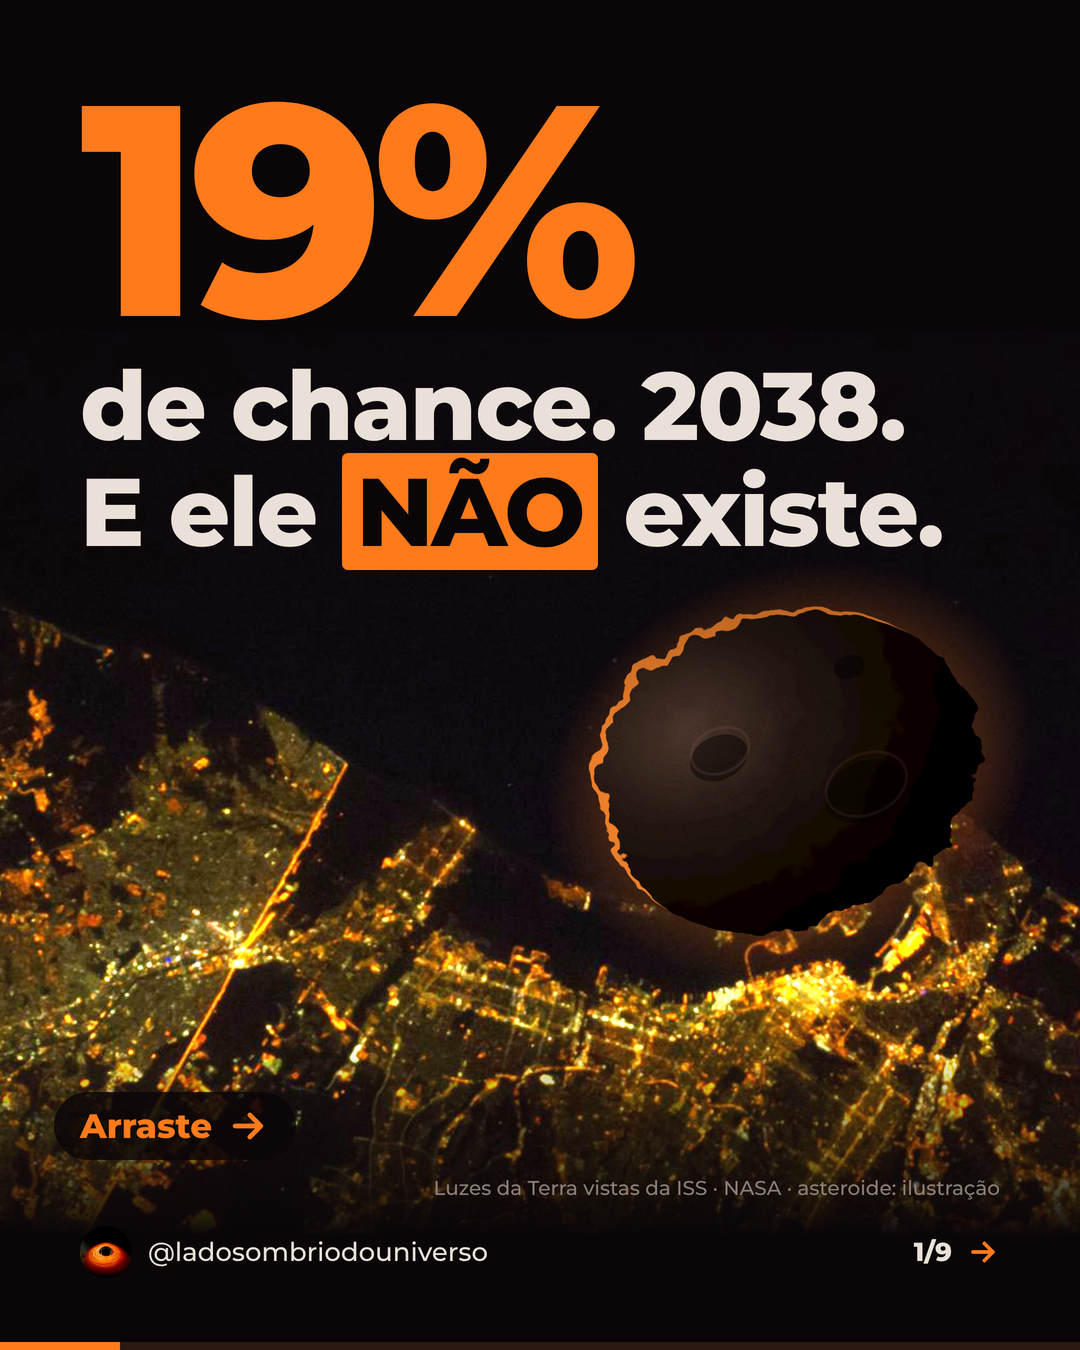
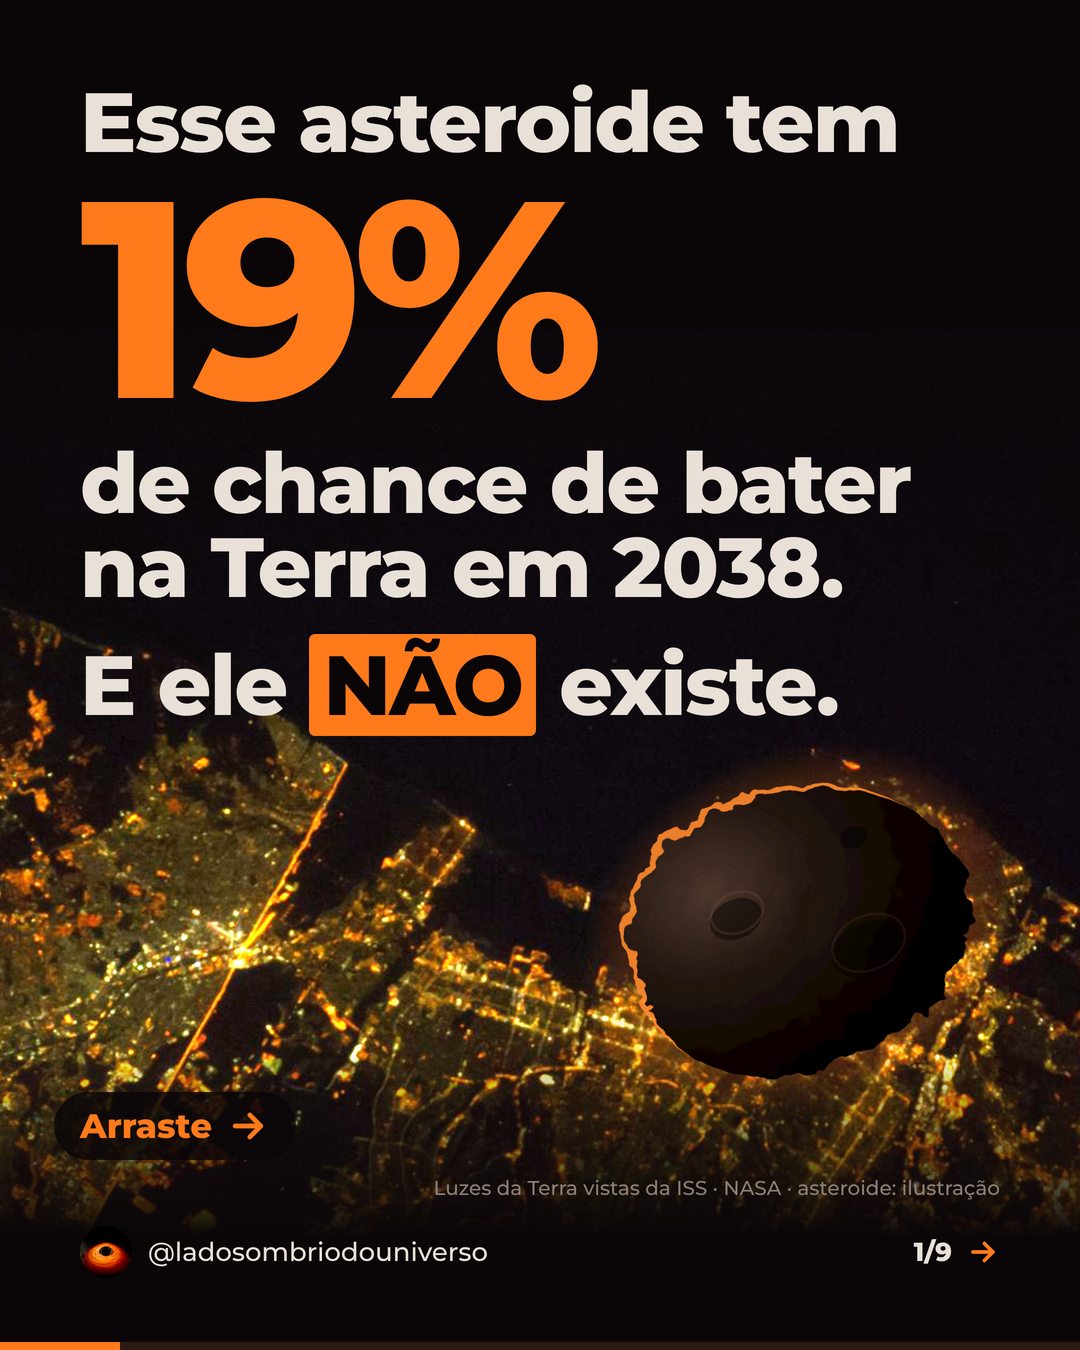
Carrossel PDC27: capa com o gancho "esse asteroide tem 19% de chance"
Pedido do dono na aprovação: a capa passa a dizer a ameaça por inteiro
antes da virada. O asteroide desce para não cobrir o texto.

Claude-Session: https://claude.ai/code/session_019KYTeVZcURhxGac3ijKjZn

Changed region(s): [[0.0611, 0.0622, 0.9472, 0.8089], [0.6722, 0.0622, 0.825, 0.1244]]

diff --git a/producoes/carrosseis/pdc27/carrossel.html b/producoes/carrosseis/pdc27/carrossel.html
@@ -53,7 +53,7 @@
       <filter id="aspero" x="-20%" y="-20%" width="140%" height="140%"><feTurbulence type="fractalNoise" baseFrequency=".035" numOctaves="3" seed="4"/><feDisplacementMap in="SourceGraphic" scale="26"/></filter>
       <filter id="textura" x="0" y="0" width="100%" height="100%"><feTurbulence type="fractalNoise" baseFrequency=".9" numOctaves="2" seed="9" result="n"/><feColorMatrix in="n" type="matrix" values="0 0 0 0 0  0 0 0 0 0  0 0 0 0 0  0 0 0 .55 0" result="g"/><feComposite in="g" in2="SourceGraphic" operator="in" result="t"/><feMerge><feMergeNode in="SourceGraphic"/><feMergeNode in="t"/></feMerge></filter>
     </defs>
-    <g transform="translate(790 770) rotate(-24)">
+    <g transform="translate(800 930) rotate(-24) scale(.9)">
       <ellipse cx="0" cy="0" rx="250" ry="200" fill="url(#brilhoR)"/>
       <g filter="url(#aspero)">
         <path d="M-180,-50 C-168,-130 -70,-168 12,-154 C96,-142 180,-96 190,-12 C200,72 132,142 36,152 C-60,161 -144,132 -178,60 C-194,24 -187,-12 -180,-50Z" fill="#ff8a2e" opacity=".9" transform="translate(-6 -8)"/>
@@ -66,9 +66,10 @@
   </svg>
   <div class="vel" style="background:linear-gradient(180deg,rgba(10,6,8,.7) 20%,rgba(10,6,8,0) 55%)"></div>
   <div class="in">
-    <div style="font-weight:800;font-size:300px;line-height:.86;letter-spacing:-.04em;color:var(--ac)">19%</div>
-    <h1 style="margin-top:20px;font-size:96px">de chance. 2038.</h1>
-    <h1 style="margin-top:10px;font-size:96px">E ele <span class="marca">NÃO</span> existe.</h1>
+    <h1 style="font-size:84px">Esse asteroide tem</h1>
+    <div style="font-weight:800;font-size:280px;line-height:.86;letter-spacing:-.04em;color:var(--ac);margin-top:14px">19%</div>
+    <h1 style="margin-top:22px;font-size:84px">de chance de bater na Terra em&nbsp;2038.</h1>
+    <h1 style="margin-top:34px;font-size:84px">E ele <span class="marca">NÃO</span> existe.</h1>
     <div class="puxa" style="margin-top:auto;align-self:flex-start;display:flex;align-items:center;gap:14px;font-size:34px;background:rgba(10,6,8,.85);padding:12px 26px;border-radius:999px;margin-left:-26px">Arraste <svg width="44" height="44" viewBox="0 0 24 24" fill="none" stroke="#ff7a1a" stroke-width="2.6" stroke-linecap="round" stroke-linejoin="round"><path d="M5 12h14M13 6l6 6-6 6"/></svg></div>
   </div>
   <div class="cred">Luzes da Terra vistas da ISS · NASA · asteroide: ilustração</div>

diff --git a/output/pdc27/LEGENDA.md b/output/pdc27/LEGENDA.md
@@ -1,7 +1,8 @@
-# 19% de chance. 2038. E ele NÃO existe. · @ladosombriodouniverso
+# Esse asteroide tem 19% de chance de bater na Terra em 2038. E ele NÃO existe. · @ladosombriodouniverso
 
 **Roteiro:** `producoes/roteiros/lote_2026-10-22_pdc27.md`, roteiro #2 (aprovado pelo dono em 22/10/2026, v1)
 **Formato:** Instagram 1080×1350 · 9 slides
+**Capa (v2, pedido do dono em 22/10):** "Esse asteroide tem 19% de chance de bater na Terra em 2038. E ele NÃO existe."
 **Fonte do design:** `producoes/carrosseis/pdc27/carrossel.html` · exportar com `NODE_PATH=$(npm root -g) node producoes/carrosseis/render.js producoes/carrosseis/pdc27`
 **Imagens:** luzes da Terra vistas da ISS (NASA, iss040e091231); centro de controle da DART (NASA/Johns Hopkins APL); missão DART, ilustração (NASA/Johns Hopkins APL); asteroide da capa, ficha de radar, gráfico, Chelyabinsk e céu do slide 8 são ilustrações próprias.
 
